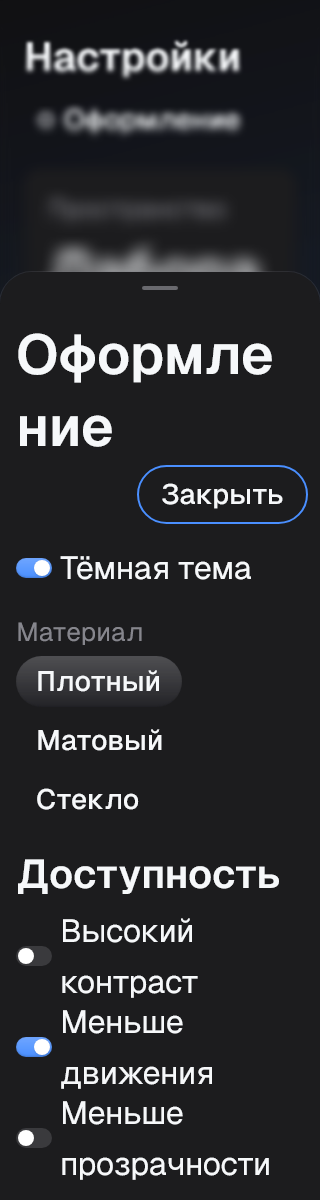
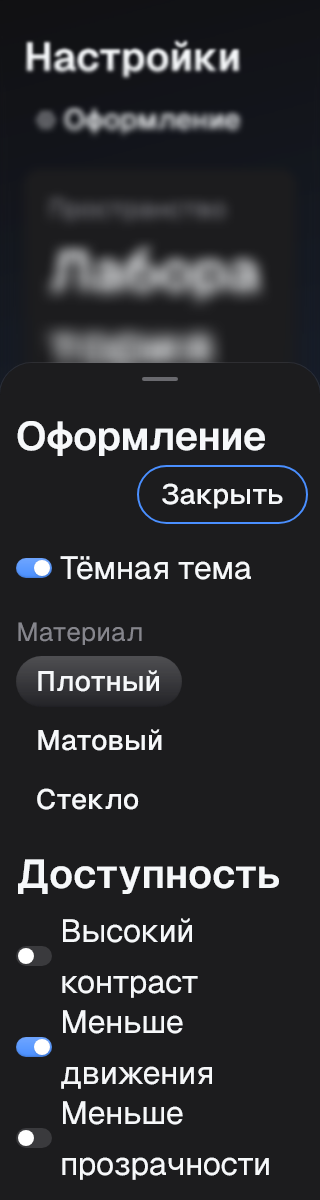
fix(native): use authored Sheet titles and isolate iOS Undo timing

Changed region(s): [[0.0625, 0.2158, 0.8438, 0.4008]]

diff --git a/native/compose/consumer/iosApp/Tests/SettingsExperienceTests.swift b/native/compose/consumer/iosApp/Tests/SettingsExperienceTests.swift
@@ -4,7 +4,7 @@ final class SettingsExperienceTests: XCTestCase {
     override func setUp() {
         continueAfterFailure = false
     }
-    func testEditValidateAndSaveThroughNativeAccessibility() {
+    func testEditValidateAndSaveThroughNativeAccessibility() throws {
         let app = XCUIApplication()
         app.launch()
         let open = app.buttons["Редактировать"]
@@ -16,6 +16,7 @@ final class SettingsExperienceTests: XCTestCase {
         // Compose exposes editable semantics through UIKit's text-view trait, including single-line inputs.
         let name = app.textViews["Название"]
         XCTAssertTrue(name.waitForExistence(timeout: 5))
+        let previousName = try XCTUnwrap(name.value as? String)
         name.tap()
         let keyboardIntroduction = app.otherElements["UIContinuousPathIntroductionView"]
         if keyboardIntroduction.waitForExistence(timeout: 2) {
@@ -24,23 +25,14 @@ final class SettingsExperienceTests: XCTestCase {
         clear(name, in: app)
         name.typeText("Не сохранять")
         reveal(app.buttons["Отмена"], in: app, towardBottom: true).tap()
-        XCTAssertTrue(app.staticTexts["Лаборатория"].waitForExistence(timeout: 5))
+        XCTAssertTrue(app.staticTexts[previousName].waitForExistence(timeout: 5))
         open.tap()
         name.tap()
-        XCTAssertEqual(name.value as? String, "Лаборатория")
+        XCTAssertEqual(name.value as? String, previousName)
         clear(name, in: app)
         reveal(app.buttons["Сохранить"], in: app, towardBottom: true).tap()
         reveal(message("Введите название", in: app), in: app, towardBottom: false)
         name.tap()
-        name.typeText("Нативная лаборатория 東京")
-        expectValue("Нативная лаборатория 東京", in: name)
-        reveal(app.buttons["Сохранить"], in: app, towardBottom: true).tap()
-        let undo = app.buttons["Отменить"]
-        XCTAssertTrue(undo.waitForExistence(timeout: 3))
-        undo.tap()
-        XCTAssertTrue(app.staticTexts["Лаборатория"].waitForExistence(timeout: 5))
-        open.tap()
-        clear(name, in: app)
         name.typeText("Нативная лаборатория 東京")
         expectValue("Нативная лаборатория 東京", in: name)
         reveal(app.buttons["Сохранить"], in: app, towardBottom: true).tap()
@@ -56,6 +48,37 @@ final class SettingsExperienceTests: XCTestCase {
         XCTAssertTrue(name.waitForExistence(timeout: 5))
         XCTAssertEqual(name.value as? String, "Нативная лаборатория 東京")
         captureSettledFrame("Restored settings", in: app)
+    }
+
+    func testUndoRestoresThePreviousSavedWorkspace() throws {
+        let app = XCUIApplication()
+        app.launchEnvironment["LABUI_UI_TEST_SNACKBAR_DURATION_MS"] = "60000"
+        app.launch()
+        let open = app.buttons["Редактировать"]
+        XCTAssertTrue(open.waitForExistence(timeout: 15))
+        open.tap()
+        let name = app.textViews["Название"]
+        XCTAssertTrue(name.waitForExistence(timeout: 5))
+        let previousName = try XCTUnwrap(name.value as? String)
+        let changedName = previousName == "Отменяемая лаборатория"
+            ? "Другая лаборатория" : "Отменяемая лаборатория"
+        name.tap()
+        let keyboardIntroduction = app.otherElements["UIContinuousPathIntroductionView"]
+        if keyboardIntroduction.waitForExistence(timeout: 2) {
+            keyboardIntroduction.buttons["Continue"].tap()
+        }
+        clear(name, in: app)
+        name.typeText(changedName)
+        expectValue(changedName, in: name)
+        reveal(app.buttons["Сохранить"], in: app, towardBottom: true).tap()
+        XCTAssertTrue(app.staticTexts[changedName].waitForExistence(timeout: 15))
+        let undo = app.buttons["Отменить"]
+        XCTAssertTrue(undo.waitForExistence(timeout: 15))
+        undo.tap()
+        XCTAssertTrue(app.staticTexts[previousName].waitForExistence(timeout: 15))
+        open.tap()
+        XCTAssertTrue(name.waitForExistence(timeout: 5))
+        XCTAssertEqual(name.value as? String, previousName)
     }
 
     private func clear(_ editor: XCUIElement, in app: XCUIApplication) {

diff --git a/native/compose/consumer/src/desktopTest/kotlin/pics/lab/ui/sample/SettingsLayoutTest.kt b/native/compose/consumer/src/desktopTest/kotlin/pics/lab/ui/sample/SettingsLayoutTest.kt
@@ -11,6 +11,7 @@ import androidx.compose.ui.semantics.getOrNull
 import androidx.compose.ui.text.AnnotatedString
 import androidx.compose.ui.text.TextLayoutResult
 import androidx.compose.ui.unit.Density
+import androidx.compose.ui.unit.sp
 import java.io.File
 import java.nio.file.Files
 import kotlin.test.Test
@@ -89,6 +90,21 @@ class SettingsLayoutTest {
         scene.render(System.nanoTime()).use { image -> image.encodeToData()!!.use { file.writeBytes(it.bytes) } }
     }
 
+    private fun authoredHeading(node: SemanticsNode): TextLayoutResult {
+        val results = mutableListOf<TextLayoutResult>()
+        assertTrue(node.config[SemanticsActions.GetTextLayoutResult].action!!.invoke(results))
+        val text = results.single()
+        assertEquals(20.sp, text.layoutInput.style.fontSize, "Figma Sheet title uses its own 20/20 role")
+        assertEquals(20.sp, text.layoutInput.style.lineHeight)
+        assertEquals(600, text.layoutInput.style.fontWeight?.weight)
+        assertEquals((-.33f).sp, text.layoutInput.style.letterSpacing)
+        for (line in 0 until text.lineCount - 1) {
+            val gap = text.layoutInput.text.text.substring(text.getLineEnd(line, visibleEnd = true), text.getLineStart(line + 1))
+            assertTrue(gap.any { it.isWhitespace() }, "Sheet headings must retain whole words at this width")
+        }
+        return text
+    }
+
     @Test
     fun shortSheetKeepsFieldsAndSaveReachableAtLargeTextScale() = runBlocking {
         val output = File("build/settings-layout").apply { mkdirs() }
@@ -116,6 +132,7 @@ class SettingsLayoutTest {
             renderUntil(scene) { nodes(scene).any { label(it) == "Редактировать" } }
             press(scene, reveal(scene) { button("Редактировать") })
             renderUntil(scene) { nodes(scene).any { label(it) == "Настройки пространства" } }
+            authoredHeading(nodes(scene).single { label(it) == "Настройки пространства" })
             snapshot(scene, File(output, "edit-320-320-200-heading.png"))
 
             val name = reveal(scene) { field("Название") }
@@ -173,9 +190,8 @@ class SettingsLayoutTest {
                 } == 4 }
                 val heading = nodes(scene).single { label(it) == "Оформление" }
                 val close = nodes(scene).single { label(it) == "Закрыть" }
-                val textLayout = mutableListOf<TextLayoutResult>()
-                assertTrue(heading.config[SemanticsActions.GetTextLayoutResult].action!!.invoke(textLayout))
-                assertTrue(textLayout.single().lineCount <= 2, "Sheet action must not squeeze the title into fragments")
+                val textLayout = authoredHeading(heading)
+                assertEquals(1, textLayout.lineCount, "The authored appearance heading fits at both tested scales")
                 if (scale == 2f) {
                     assertTrue(heading.boundsInRoot.bottom <= close.boundsInRoot.top,
                         "At large text scale the action belongs below the full-width heading")

diff --git a/native/compose/src/commonMain/kotlin/pics/lab/ui/LabSheet.kt b/native/compose/src/commonMain/kotlin/pics/lab/ui/LabSheet.kt
@@ -47,8 +47,10 @@ import androidx.compose.ui.semantics.clearAndSetSemantics
 import androidx.compose.ui.semantics.isTraversalGroup
 import androidx.compose.ui.semantics.paneTitle
 import androidx.compose.ui.semantics.semantics
+import androidx.compose.ui.text.font.FontWeight
 import androidx.compose.ui.unit.Constraints
 import androidx.compose.ui.unit.dp
+import androidx.compose.ui.unit.sp
 import dev.chrisbanes.haze.hazeSource
 import pics.lab.motion.MotionResult
 import pics.lab.motion.MotionTransition
@@ -304,7 +306,12 @@ public fun LabSheetHost(
                                             Layout(
                                                 modifier = Modifier.fillMaxWidth(),
                                                 content = {
-                                                    BasicText(title, style = LabType.title())
+                                                    BasicText(title, style = LabType.body().copy(
+                                                        fontSize = LabComponents.SheetTypographyTitleFontSize.sp,
+                                                        lineHeight = LabComponents.SheetTypographyTitleLineHeight.sp,
+                                                        fontWeight = FontWeight(LabComponents.SheetTypographyTitleFontWeight.toInt()),
+                                                        letterSpacing = LabComponents.SheetTypographyTitleLetterSpacing.sp,
+                                                    ))
                                                     LabButton(
                                                         dismissLabel,
                                                         dismiss,

diff --git a/native/compose/consumer/iosApp/App.swift b/native/compose/consumer/iosApp/App.swift
@@ -14,7 +14,17 @@ struct LabUIView: UIViewControllerRepresentable {
     }
     func makeCoordinator() -> Coordinator { Coordinator() }
     func makeUIViewController(context: Context) -> UIViewController {
-        MainKt.MainViewController(host: context.coordinator.colors)
+        var snackbarDuration = LabSnackbarDefaults.shared.durationMillis
+        #if DEBUG
+        // XCTest snapshots can take longer than the authored action interval.
+        // Only the Undo test supplies a longer interval; release uses the profile.
+        if let raw = ProcessInfo.processInfo.environment["LABUI_UI_TEST_SNACKBAR_DURATION_MS"],
+           let interval = Int64(raw), interval > 0 {
+            snackbarDuration = interval
+        }
+        #endif
+        return MainKt.MainViewController(host: context.coordinator.colors,
+                                         snackbarDurationMillis: snackbarDuration)
     }
     func updateUIViewController(_ uiViewController: UIViewController, context: Context) {}
     static func dismantleUIViewController(_ uiViewController: UIViewController, coordinator: Coordinator) {

diff --git a/native/compose/consumer/src/commonMain/kotlin/pics/lab/ui/sample/SettingsScreen.kt b/native/compose/consumer/src/commonMain/kotlin/pics/lab/ui/sample/SettingsScreen.kt
@@ -49,7 +49,11 @@ import pics.lab.icons.symbols.settings
 import pics.lab.ui.*
 
 @Composable
-fun SettingsScreen(host: ColorProgramHost, store: WorkspaceStore) {
+fun SettingsScreen(
+    host: ColorProgramHost,
+    store: WorkspaceStore,
+    snackbarDurationMillis: Long = LabSnackbarDefaults.durationMillis,
+) {
     var saved by remember(store) { mutableStateOf<WorkspaceSettings?>(null) }
     var loadError by remember { mutableStateOf(false) }
     var loadAttempt by remember { mutableStateOf(0) }
@@ -453,7 +457,8 @@ fun SettingsScreen(host: ColorProgramHost, store: WorkspaceStore) {
             snackbar?.let { message ->
                 LabSnackbar(
                     message,
-                    Modifier.align(Alignment.BottomCenter)
+                    durationMillis = snackbarDurationMillis,
+                    modifier = Modifier.align(Alignment.BottomCenter)
                         .safeDrawingPadding()
                         .padding(24.dp)
                         .widthIn(max = 560.dp),

diff --git a/native/compose/src/commonMain/kotlin/pics/lab/ui/LabSnackbar.kt b/native/compose/src/commonMain/kotlin/pics/lab/ui/LabSnackbar.kt
@@ -54,6 +54,10 @@ import pics.lab.motion.MotionTransition
 import kotlin.math.ceil
 import kotlin.time.TimeSource
 
+public object LabSnackbarDefaults {
+    public val durationMillis: Long get() = LabComponents.SnackbarDurationMs.toLong()
+}
+
 /** Authored feedback with hoisted visibility. A notification key restarts identical messages. */
 @Composable
 public fun LabSnackbar(
@@ -61,7 +65,7 @@ public fun LabSnackbar(
     modifier: Modifier = Modifier,
     open: Boolean = true,
     onDismiss: () -> Unit = {},
-    durationMillis: Long = LabComponents.SnackbarDurationMs.toLong(),
+    durationMillis: Long = LabSnackbarDefaults.durationMillis,
     notificationKey: Any? = message,
     material: LabMaterial = LabMaterial.Solid,
     actionLabel: String? = null,

diff --git a/native/compose/consumer/src/iosMain/kotlin/pics/lab/ui/sample/Main.kt b/native/compose/consumer/src/iosMain/kotlin/pics/lab/ui/sample/Main.kt
@@ -2,7 +2,11 @@ package pics.lab.ui.sample
 
 import androidx.compose.ui.window.ComposeUIViewController
 import pics.lab.ui.ColorProgramHost
+import pics.lab.ui.LabSnackbarDefaults
 
-fun MainViewController(host: ColorProgramHost) = ComposeUIViewController {
-    SettingsScreen(host, appleWorkspaceStore)
+fun MainViewController(
+    host: ColorProgramHost,
+    snackbarDurationMillis: Long = LabSnackbarDefaults.durationMillis,
+) = ComposeUIViewController {
+    SettingsScreen(host, appleWorkspaceStore, snackbarDurationMillis)
 }
